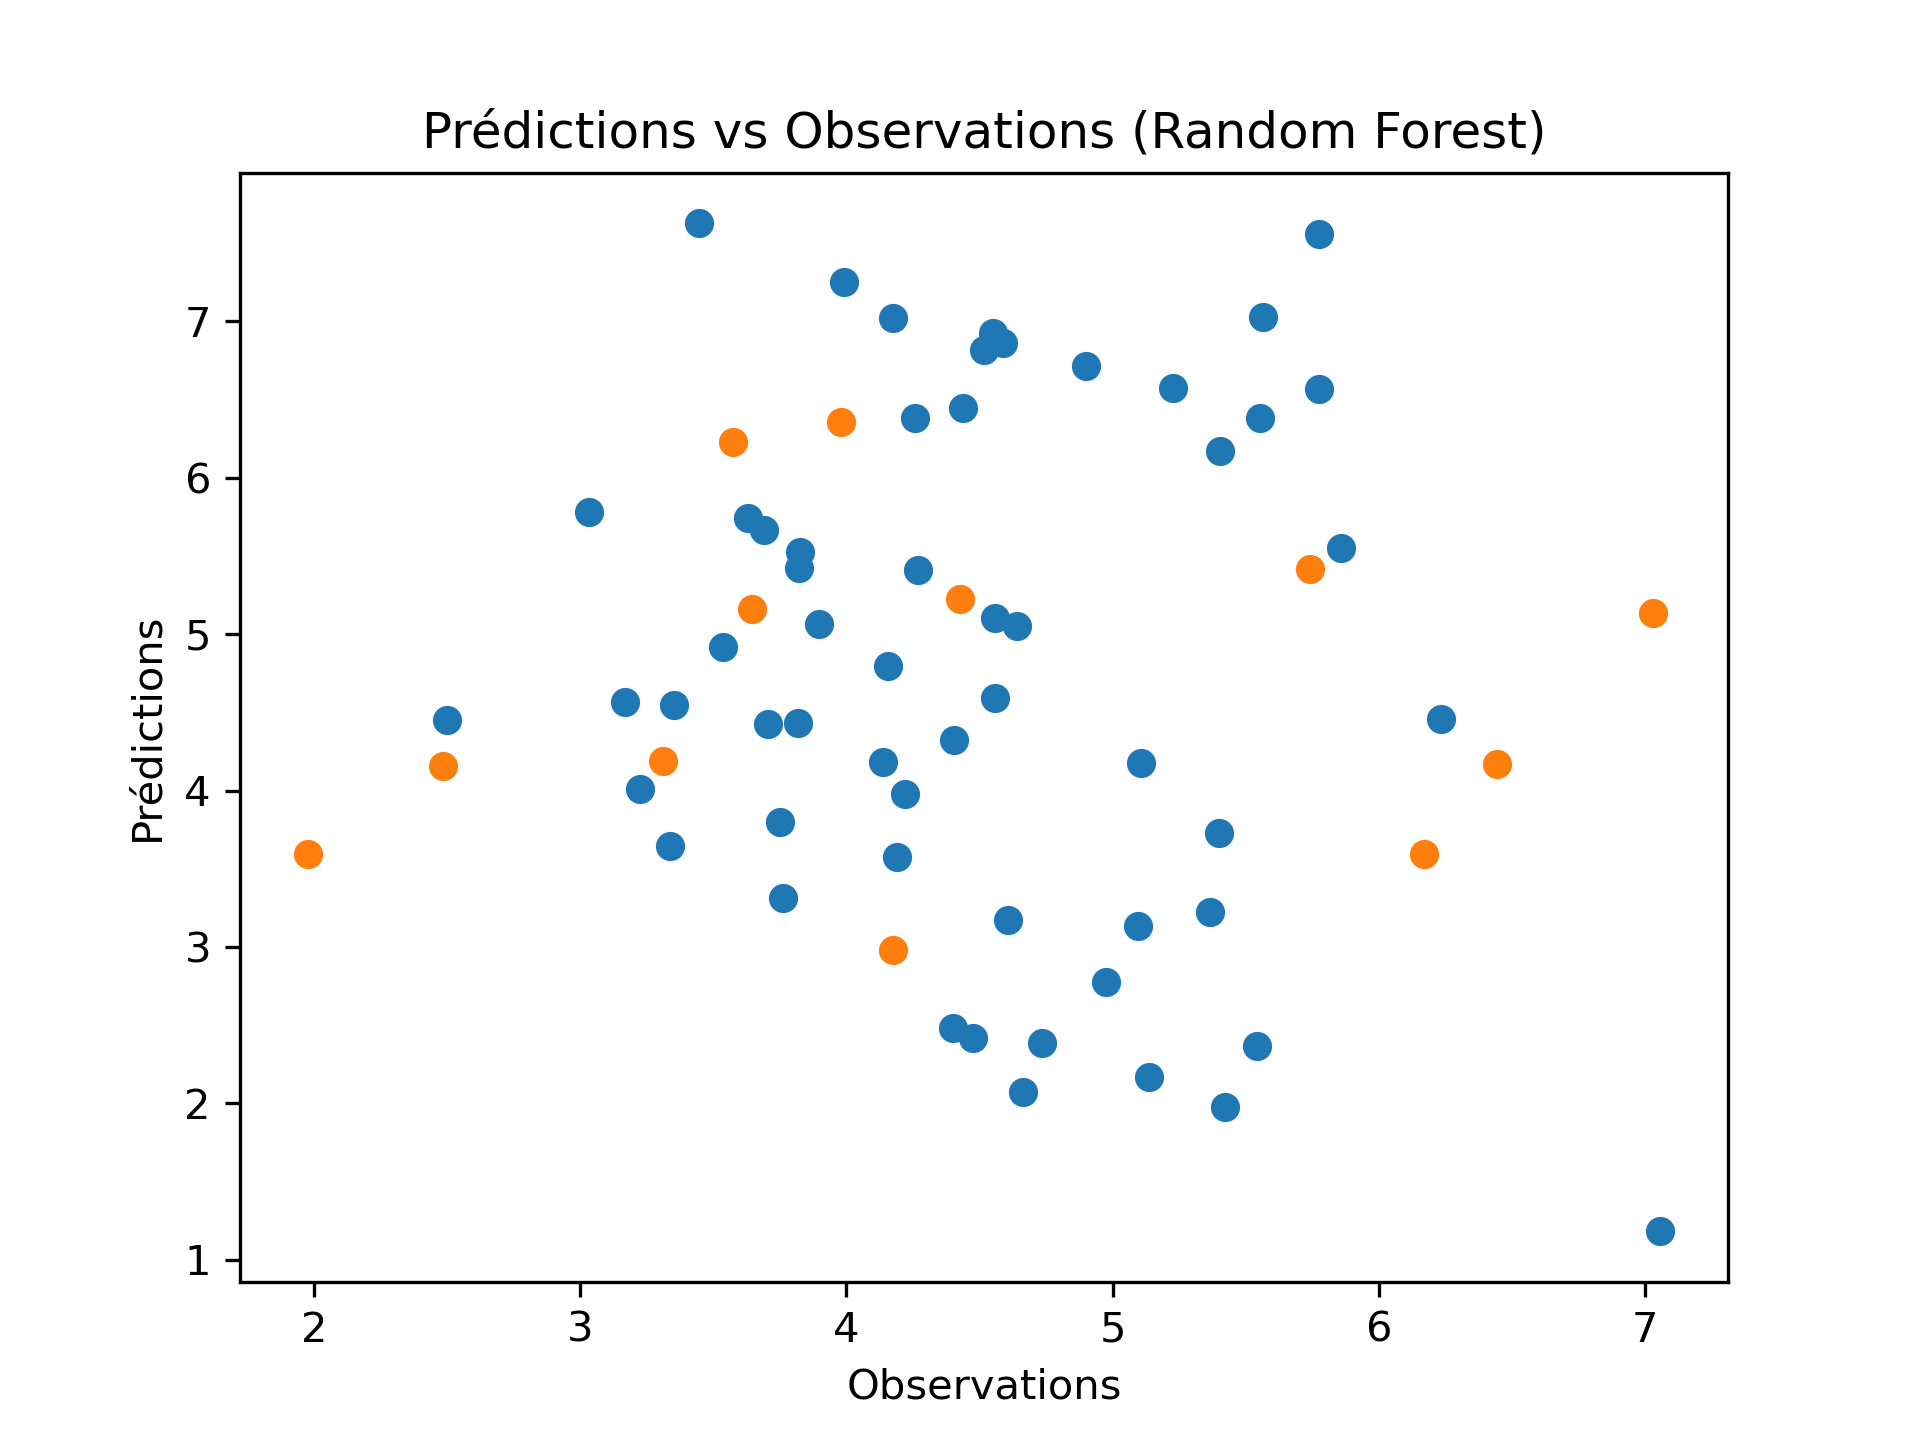
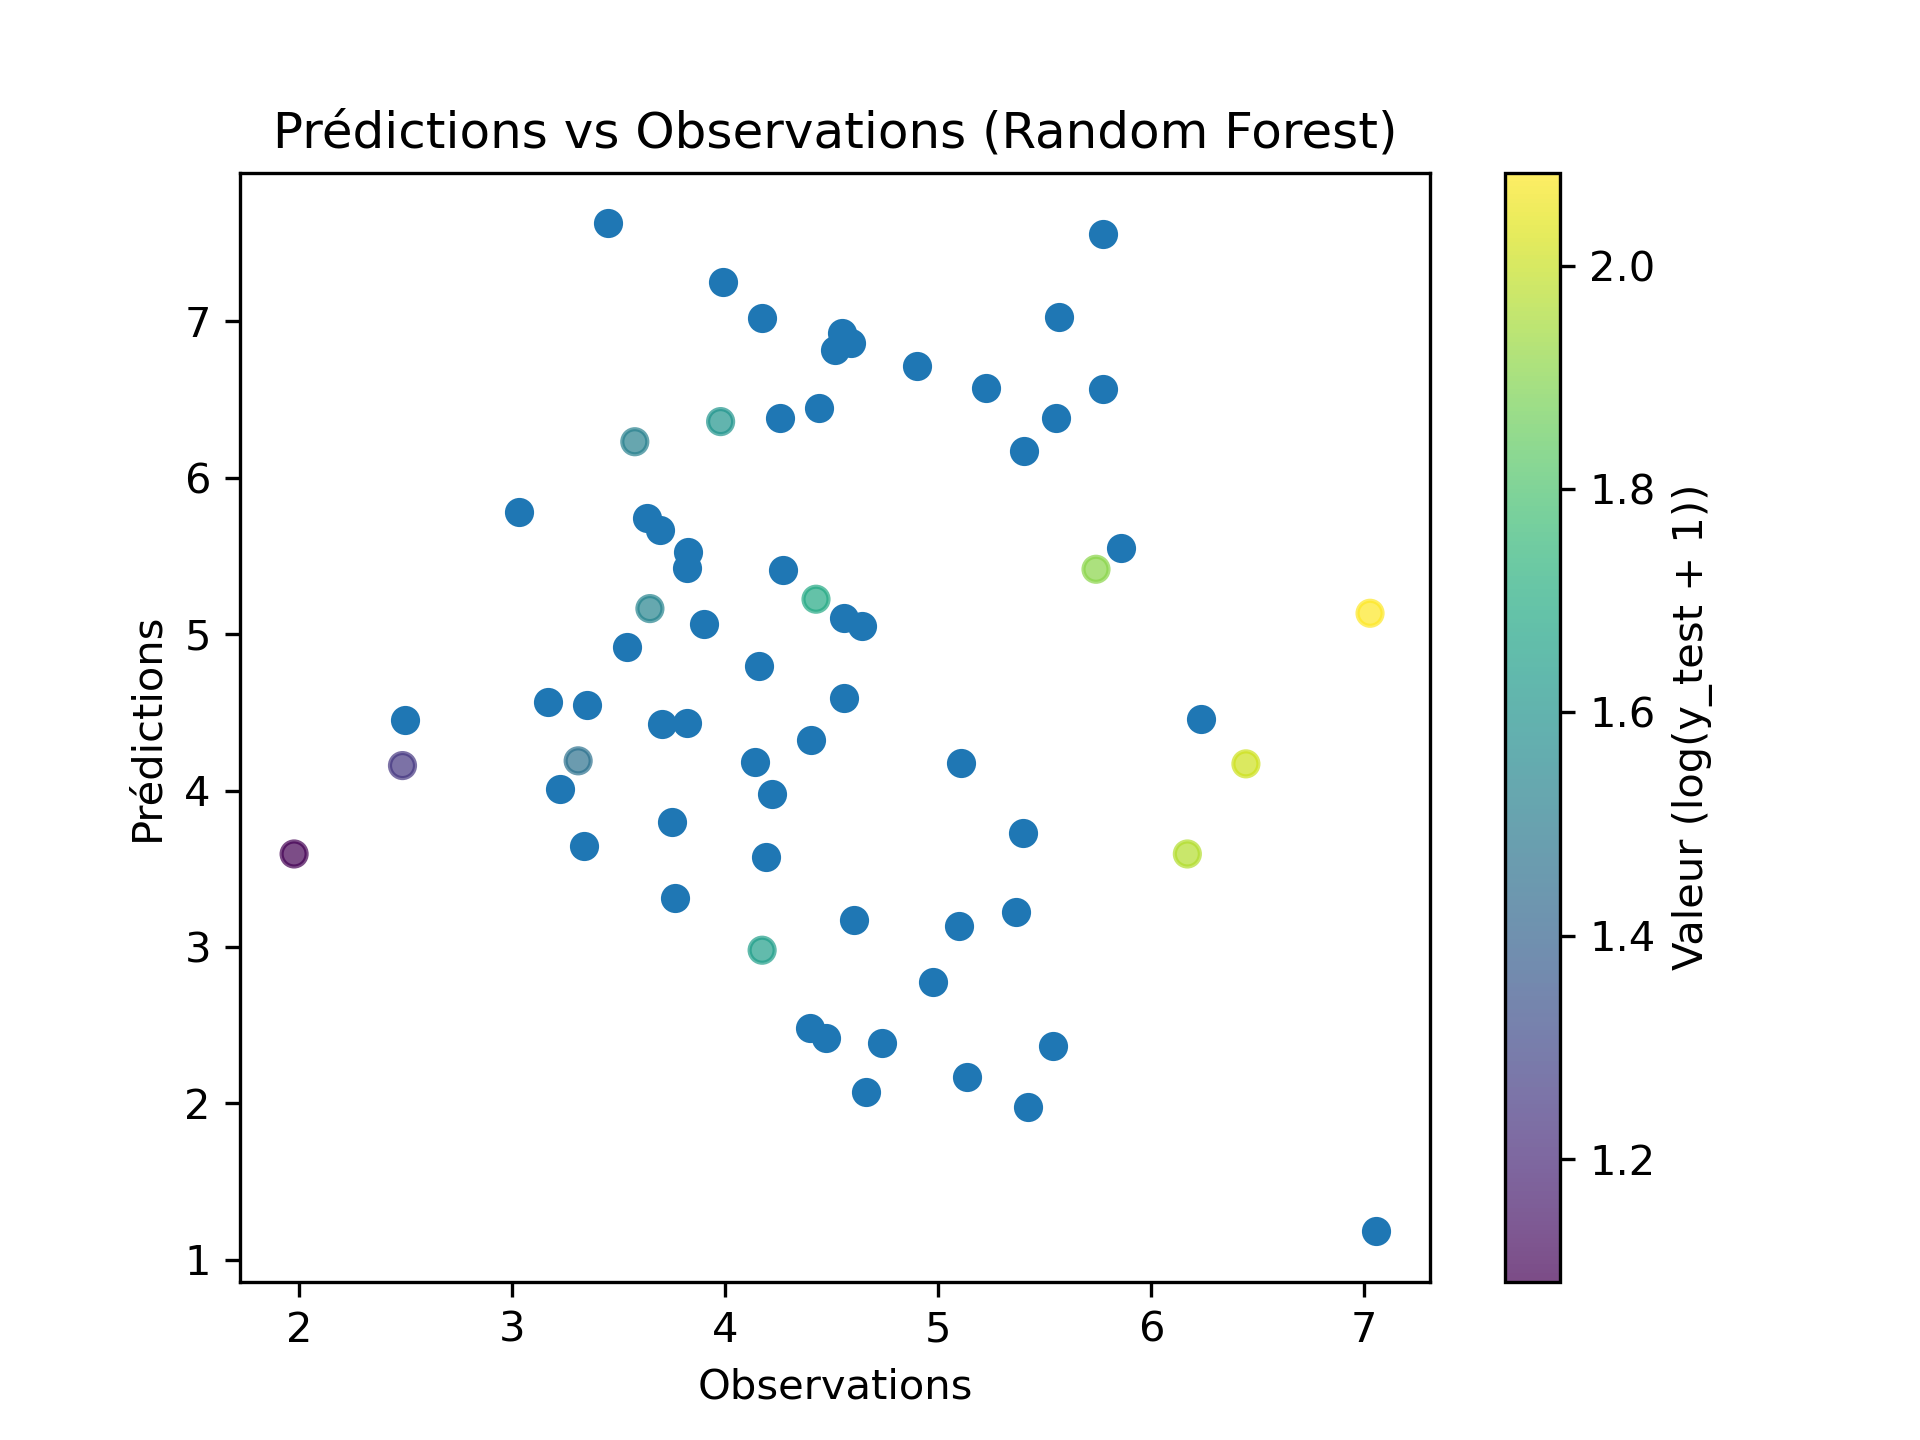
j'ai changé la légende

diff --git a/modèles2.py b/modèles2.py
@@ -97,11 +97,27 @@ r2 = r2_score(y_test, y_pred)
 print(f"Mean Squared Error: {mse:.2f}")
 print(f"R² Score: {r2:.2f}")
 
+'''
 # Visualiser les performances
 plt.scatter(y_test, y_pred)
 plt.title("Prédictions vs Observations (Random Forest)")
 plt.xlabel("Observations")
 plt.ylabel("Prédictions")
+'''
+# Créer des couleurs basées sur 'y_test' ou une autre variable, ici on utilise 'y_test' pour la couleur
+colors = np.log1p(y_test)  # Exemple de mise à l'échelle des couleurs avec log(y_test + 1))
+
+# Visualisation des prédictions
+scatter = plt.scatter(y_test, y_pred, c=colors, cmap='viridis', label='Taux de production', alpha=0.7)
+
+# Ajouter un titre et des étiquettes
+plt.title("Prédictions vs Observations (Random Forest)")
+plt.xlabel("Observations")
+plt.ylabel("Prédictions")
+
+# Ajouter la barre de couleur pour la légende
+cbar = plt.colorbar(scatter)  # Associe la barre de couleur à l'objet 'scatter'
+cbar.set_label('Valeur (log(y_test + 1))')
 
 plt.savefig('/home/onyxia/work/projet_python_2024_ENSAE/output/prediction_observation_rf.png', dpi=300)
 plt.show()
